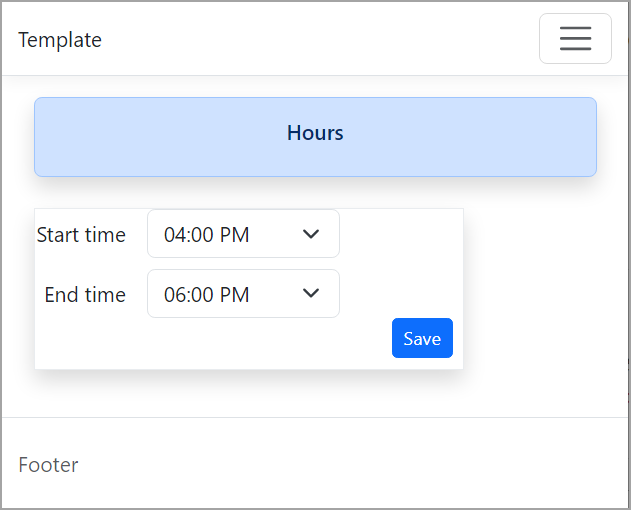
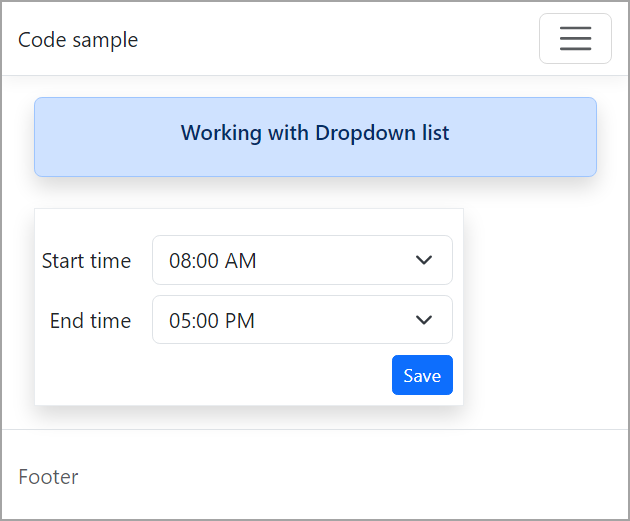
minor changes

diff --git a/Tinkering/Program.cs b/Tinkering/Program.cs
@@ -1,7 +1,9 @@
 using System.Diagnostics.CodeAnalysis;
+using System.Globalization;
 using System.Text;
 using System.Text.Json;
 using Tinkering.Classes;
+using Calendar = System.Globalization.Calendar;
 
 namespace Tinkering;
 
@@ -9,7 +11,6 @@ internal partial class Program
 {
     static void Main(string[] args)
     {
-
         //var items = "css/bootstrap-grid.css, css/bootstrap-grid.css.map, css/bootstrap-grid.min.css, css/bootstrap-grid.min.css.map, css/bootstrap-grid.rtl.css, css/bootstrap-grid.rtl.css.map, css/bootstrap-grid.rtl.min.css, css/bootstrap-grid.rtl.min.css.map, css/bootstrap-reboot.css, css/bootstrap-reboot.css.map, css/bootstrap-reboot.min.css, css/bootstrap-reboot.min.css.map, css/bootstrap-reboot.rtl.css, css/bootstrap-reboot.rtl.css.map, css/bootstrap-reboot.rtl.min.css, css/bootstrap-reboot.rtl.min.css.map, css/bootstrap-utilities.css, css/bootstrap-utilities.css.map, css/bootstrap-utilities.min.css, css/bootstrap-utilities.min.css.map, css/bootstrap-utilities.rtl.css, css/bootstrap-utilities.rtl.css.map, css/bootstrap-utilities.rtl.min.css, css/bootstrap-utilities.rtl.min.css.map, css/bootstrap.css, css/bootstrap.css.map, css/bootstrap.min.css, css/bootstrap.min.css.map, css/bootstrap.rtl.css, css/bootstrap.rtl.css.map, css/bootstrap.rtl.min.css, css/bootstrap.rtl.min.css.map, js/bootstrap.bundle.js, js/bootstrap.bundle.js.map, js/bootstrap.bundle.min.js, js/bootstrap.bundle.min.js.map, js/bootstrap.esm.js, js/bootstrap.esm.js.map, js/bootstrap.esm.min.js, js/bootstrap.esm.min.js.map, js/bootstrap.js, js/bootstrap.js.map, js/bootstrap.min.js, js/bootstrap.min.js.map, scss/_accordion.scss, scss/_alert.scss, scss/_badge.scss, scss/_breadcrumb.scss, scss/_button-group.scss, scss/_buttons.scss, scss/_card.scss, scss/_carousel.scss, scss/_close.scss, scss/_containers.scss, scss/_dropdown.scss, scss/_forms.scss, scss/_functions.scss, scss/_grid.scss, scss/_helpers.scss, scss/_images.scss, scss/_list-group.scss, scss/_maps.scss, scss/_mixins.scss, scss/_modal.scss, scss/_nav.scss, scss/_navbar.scss, scss/_offcanvas.scss, scss/_pagination.scss, scss/_placeholders.scss, scss/_popover.scss, scss/_progress.scss, scss/_reboot.scss, scss/_root.scss, scss/_spinners.scss, scss/_tables.scss, scss/_toasts.scss, scss/_tooltip.scss, scss/_transitions.scss, scss/_type.scss, scss/_utilities.scss, scss/_variables-dark.scss, scss/_variables.scss, scss/bootstrap-grid.scss, scss/bootstrap-reboot.scss, scss/bootstrap-utilities.scss, scss/bootstrap.scss, scss/forms/_floating-labels.scss, scss/forms/_form-check.scss, scss/forms/_form-control.scss, scss/forms/_form-range.scss, scss/forms/_form-select.scss, scss/forms/_form-text.scss, scss/forms/_input-group.scss, scss/forms/_labels.scss, scss/forms/_validation.scss, scss/helpers/_clearfix.scss, scss/helpers/_color-bg.scss, scss/helpers/_colored-links.scss, scss/helpers/_focus-ring.scss, scss/helpers/_icon-link.scss, scss/helpers/_position.scss, scss/helpers/_ratio.scss, scss/helpers/_stacks.scss, scss/helpers/_stretched-link.scss, scss/helpers/_text-truncation.scss, scss/helpers/_visually-hidden.scss, scss/helpers/_vr.scss, scss/mixins/_alert.scss, scss/mixins/_backdrop.scss, scss/mixins/_banner.scss, scss/mixins/_border-radius.scss, scss/mixins/_box-shadow.scss, scss/mixins/_breakpoints.scss, scss/mixins/_buttons.scss, scss/mixins/_caret.scss, scss/mixins/_clearfix.scss, scss/mixins/_color-mode.scss, scss/mixins/_color-scheme.scss, scss/mixins/_container.scss, scss/mixins/_deprecate.scss, scss/mixins/_forms.scss, scss/mixins/_gradients.scss, scss/mixins/_grid.scss, scss/mixins/_image.scss, scss/mixins/_list-group.scss, scss/mixins/_lists.scss, scss/mixins/_pagination.scss, scss/mixins/_reset-text.scss, scss/mixins/_resize.scss, scss/mixins/_table-variants.scss, scss/mixins/_text-truncate.scss, scss/mixins/_transition.scss, scss/mixins/_utilities.scss, scss/mixins/_visually-hidden.scss, scss/utilities/_api.scss, scss/vendor/_rfs.scss".Split(',');
         //StringBuilder sb = new StringBuilder();
         //foreach (var item in items)
@@ -24,20 +25,23 @@ internal partial class Program
         //NaturalSortSample();
         //Console.WriteLine(DirectoryHelper.SolutionFolder());
 
+        DateTime dt = new(2023, 7, 21);
+        Calendar calendar = new CultureInfo("en-US").Calendar;
+        int week = calendar.GetWeekOfYear(dt, CalendarWeekRule.FirstDay, DayOfWeek.Sunday);
+        Console.WriteLine(week);
+
+        Console.ReadLine();
+    }
+
+    private static void SwitchWhenCanBeRefactored()
+    {
         var a = "123";
-        //var b = a switch
-        //{
-        //    ['1', _, _] => "passed", // CS8918: Identifier or a simple member access expected.
-        //    _ => "error"
-        //};
         var b = a switch
         {
             { Length: 3 } when a[0] == '1' => "passed",
             _ => "error"
         };
         Console.WriteLine(b);
-
-        Console.ReadLine();
     }
 
     private static void NaturalSortSample()

diff --git a/NorthWindExampleApp4/Pages/CustomerView.cshtml.cs b/NorthWindExampleApp4/Pages/CustomerView.cshtml.cs
@@ -32,14 +32,14 @@ namespace NorthWindExampleApp4.Pages
             if (_context.Customers != null)
             {
                 Customers = await OrderByOnNavigation("CountryIdentifierNavigation.Name");
-                SqlColumns = _context.GetModelProperties("Customers");
+                SqlColumns = _context.GetModelProperties(nameof(Customers));
                 ColumnList = new SelectList(SqlColumns, "Id", "Name");
             }
         }
 
         public async Task OnPostSubmit(int id)
         {
-            SqlColumns = _context.GetModelProperties("Customers");
+            SqlColumns = _context.GetModelProperties(nameof(Customers));
             var current = SqlColumns.FirstOrDefault(x => x.Id == id);
             if (current!.IsNavigation)
             {

diff --git a/WritingToScreen/Pages/Index.cshtml.cs b/WritingToScreen/Pages/Index.cshtml.cs
@@ -1,18 +1,12 @@
-using Microsoft.AspNetCore.Mvc;
-using Microsoft.AspNetCore.Mvc.RazorPages;
-using System.Reflection;
+using Microsoft.AspNetCore.Mvc.RazorPages;
+
 #pragma warning disable CS8618
 
 namespace WritingToScreen.Pages;
 public class IndexModel : PageModel
 {
-    private readonly ILogger<IndexModel> _logger;
 
     public string Message { get; set; }
-    public IndexModel(ILogger<IndexModel> logger)
-    {
-        _logger = logger;
-    }
 
     public void OnGet()
     {

diff --git a/NorthWindExampleApp4/Program.cs b/NorthWindExampleApp4/Program.cs
@@ -18,11 +18,9 @@ public class Program
 
         var app = builder.Build();
 
-        // Configure the HTTP request pipeline.
         if (!app.Environment.IsDevelopment())
         {
             app.UseExceptionHandler("/Error");
-            // The default HSTS value is 30 days. You may want to change this for production scenarios, see https://aka.ms/aspnetcore-hsts.
             app.UseHsts();
         }
 

diff --git a/HoursApplication/Program.cs b/HoursApplication/Program.cs
@@ -11,8 +11,7 @@ public class Program
         var builder = WebApplication.CreateBuilder(args);
 
         builder.Services.AddRazorPages();
-
-
+        
         builder.Services.Configure<Appsettings>(builder.Configuration.GetSection(nameof(Appsettings)));
 
         SetupLogging.Development();

diff --git a/HoursApplication/Pages/Index.cshtml.cs b/HoursApplication/Pages/Index.cshtml.cs
@@ -69,7 +69,7 @@ public class IndexModel : PageModel
                 EndTime = Container.EndTime
             };
 
-
+    
             return RedirectToPage("About", new
             {
                 container = JsonSerializer.Serialize(container, new JsonSerializerOptions

diff --git a/WorkingWithDateTime/Pages/Index.cshtml.cs b/WorkingWithDateTime/Pages/Index.cshtml.cs
@@ -6,6 +6,7 @@ using System.Globalization;
 using Serilog;
 using WorkingWithDateTime.Models;
 using WorkingWithDateTime.Classes;
+using System.Reflection;
 
 namespace WorkingWithDateTime.Pages;
 public class IndexModel : PageModel

diff --git a/HoursApplication/Models/HourItem.cs b/HoursApplication/Models/HourItem.cs
@@ -6,5 +6,4 @@ public class HourItem
     public string Text { get; set; }
     public TimeSpan? TimeSpan { get; set; }
     public override string ToString() => Text;
-
 }

diff --git a/HoursApplication/readme.md b/HoursApplication/readme.md
@@ -1,5 +1,7 @@
-# About
+# ASP.NET Core/Razor Pages Dropdowns
 
-Example for a dropdown with hours to select from. There are two dropdowns, one for start time and one for end time which post to the About page with no validaton on if end time is before start time and vis versa.
 
-![Index page with two select elements](assets/figure1.png)
+
+![Figure1](assets/figure1.png)
+
+![Figure2](assets/figure2.png)
